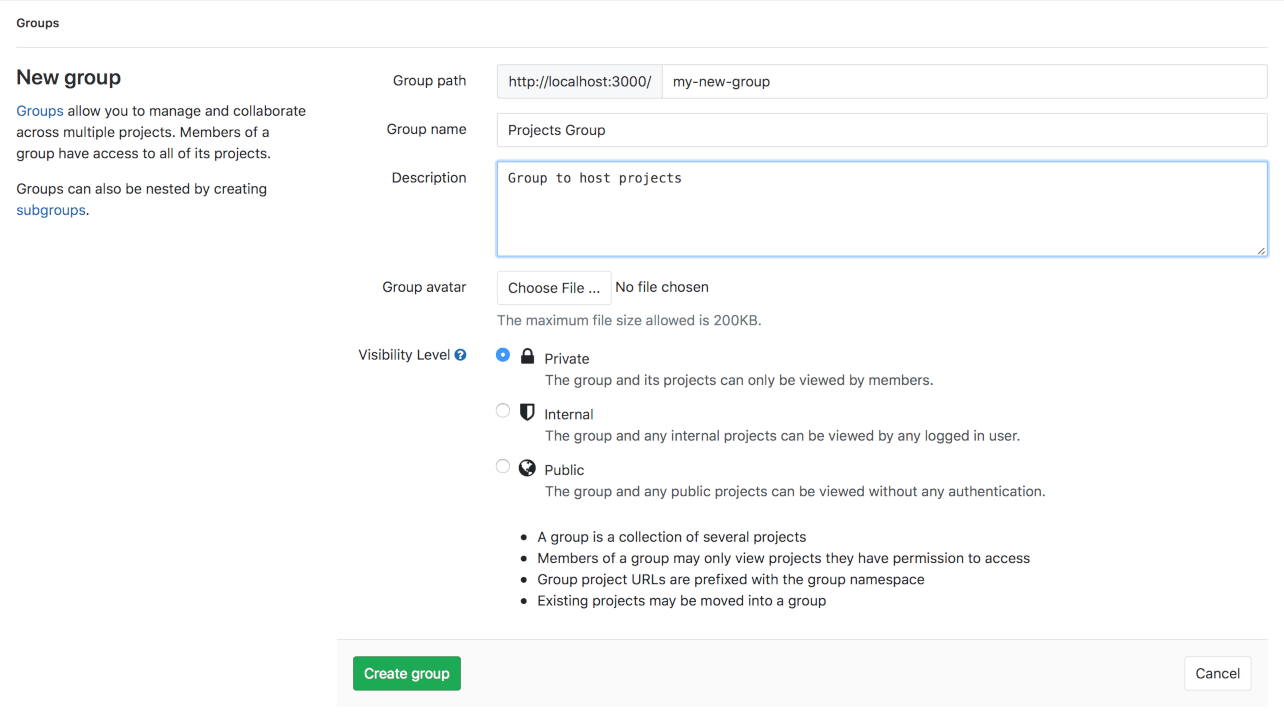
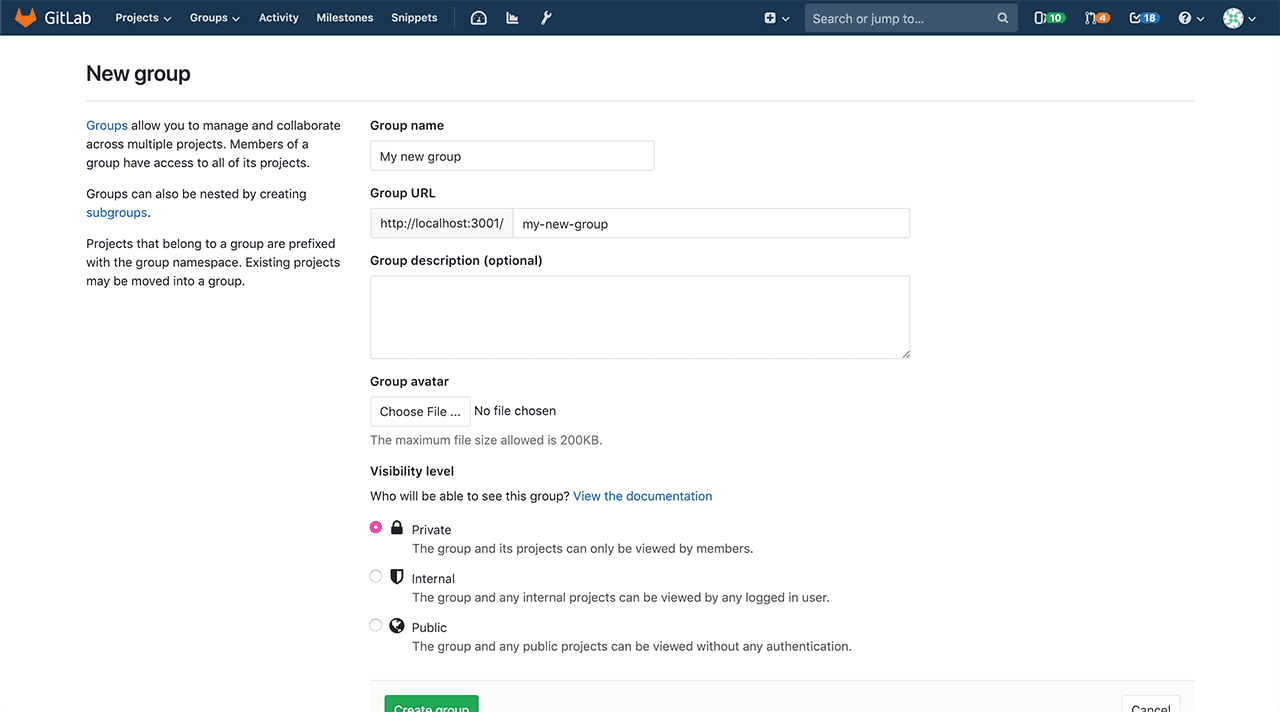
Update create ne group docs

diff --git a/doc/user/group/index.md b/doc/user/group/index.md
@@ -83,11 +83,11 @@ Add the following information:
 
 ![new group info](img/create_new_group_info.png)
 
-1. Set the **Group path** which will be the **namespace** under which your projects
+1. The **Group name** will populate the path automatically. Optionally, you can
+   change it. This is the name that will me displayed in the group views.
+1. Set the **Group URL** which will be the **namespace** under which your projects
    will be hosted (path can contain only letters, digits, underscores, dashes
    and dots; it cannot start with dashes or end in dot).
-1. The **Group name** will populate with the path. Optionally, you can change
-   it. This is the name that will display in the group views.
 1. Optionally, you can add a description so that others can briefly understand
    what this group is about.
 1. Optionally, choose an avatar for your project.
